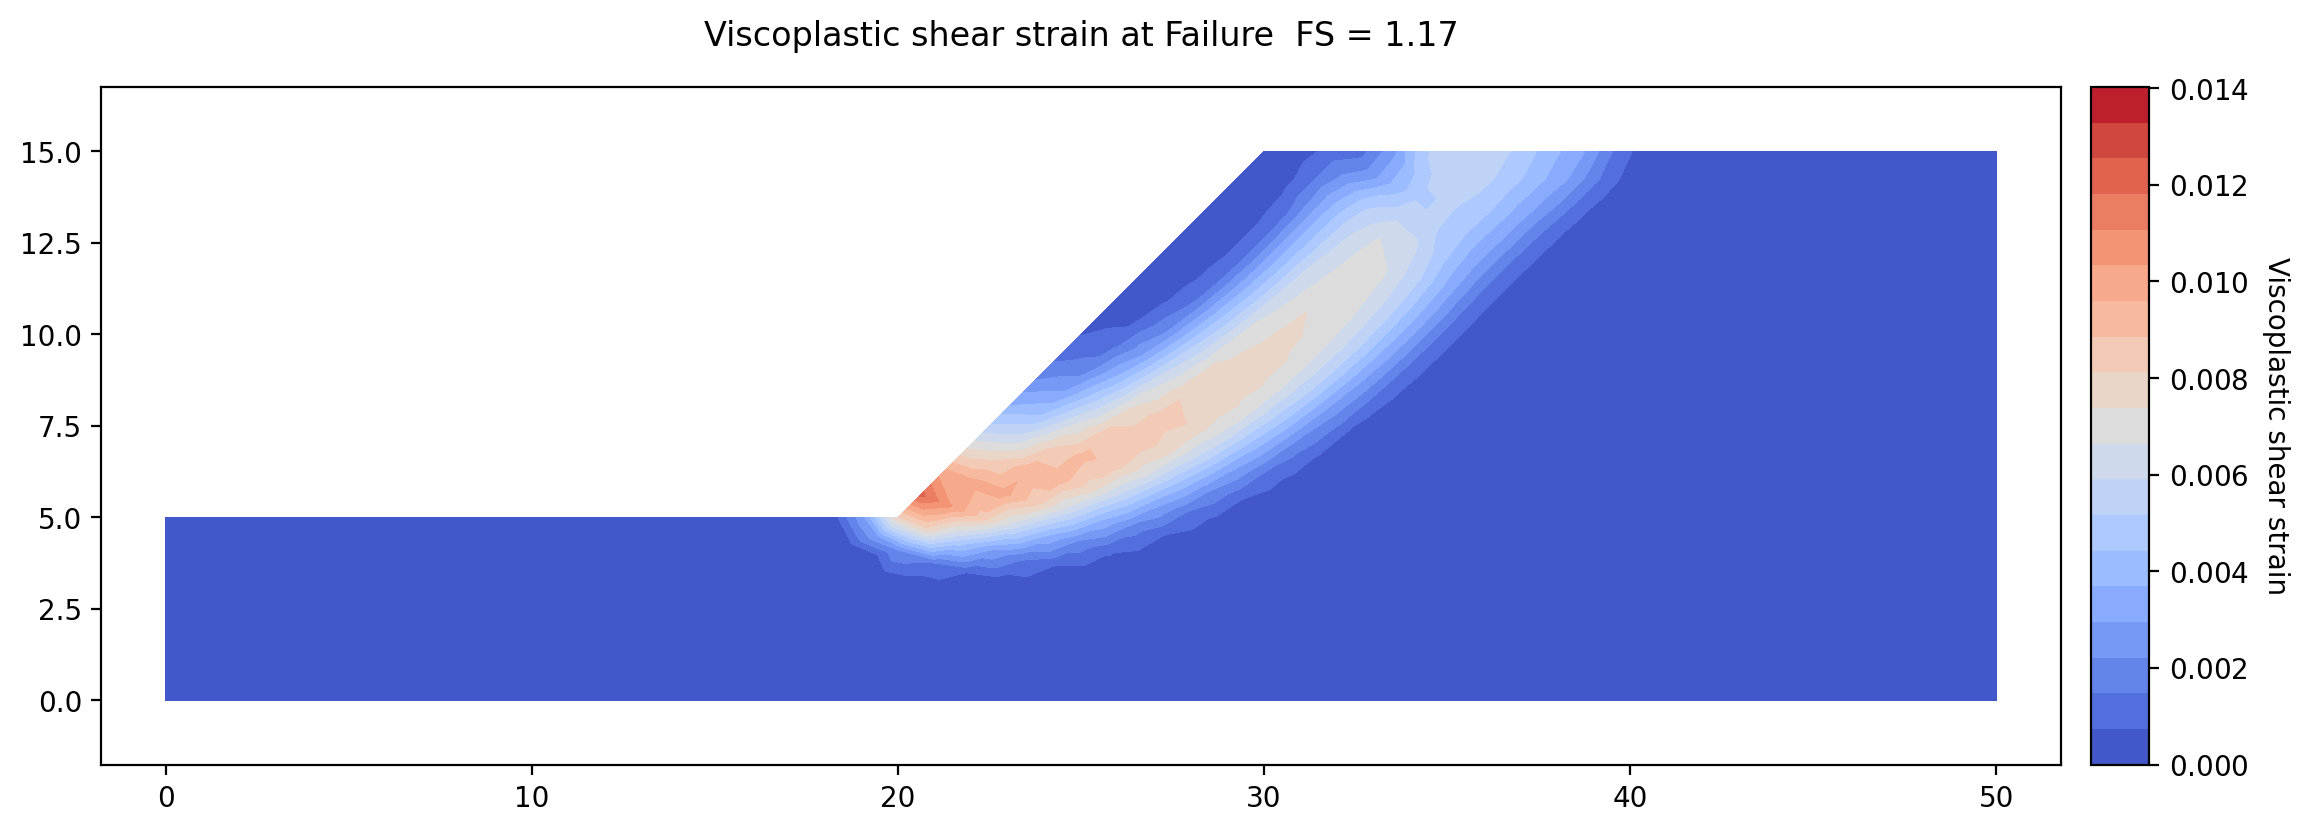
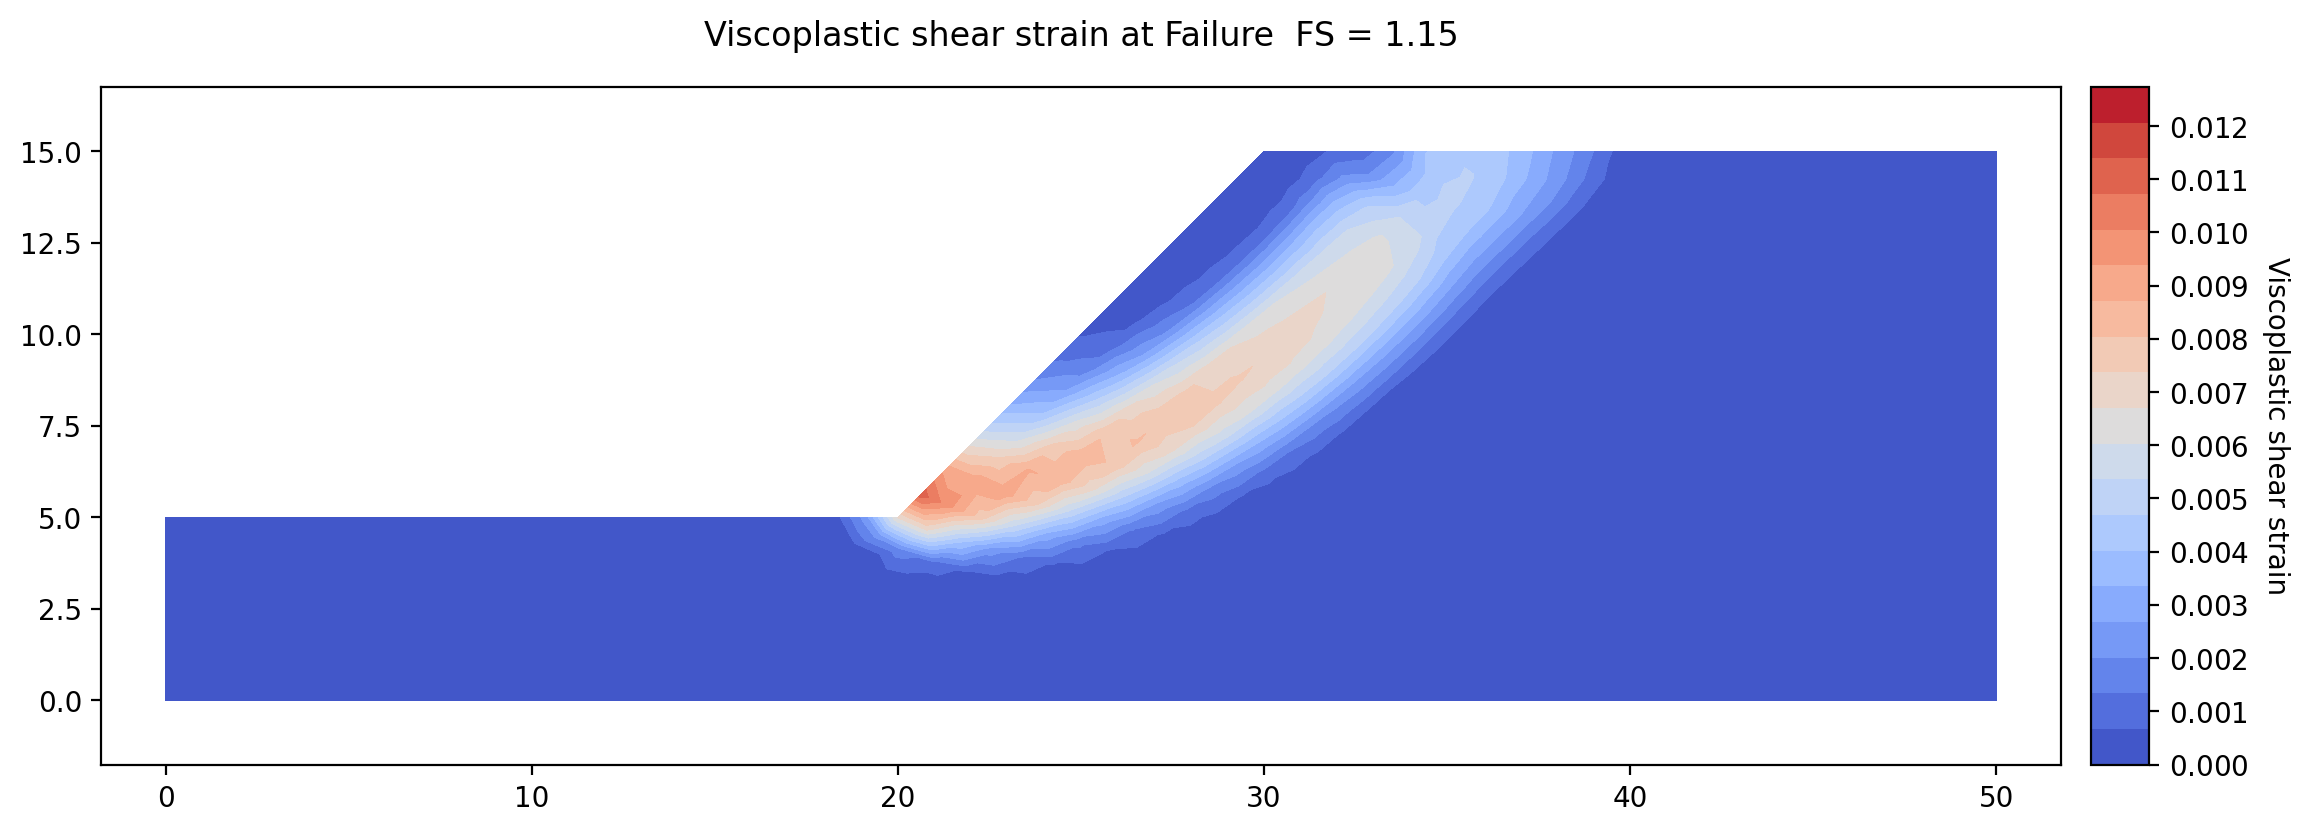
docs(lem13): the rock slope's strength reduction reads 1.153
With the tensile cutoff declared, Run FEM opens with no warning to report, so the
paragraph that named the blank t_cut and pointed at FEM-1 for what an unbounded
cone apex means is gone; what remains is the bracket and the settings the file
declares. The regenerated capture shows Model checks reading "No problems found
for this run" over the K0 note, Run enabled, and the Tension SRF checkbox dimmed,
since a zero cap is one the trial factor cannot reduce.

The strength-reduction lock moves with the file: expected_fs 1.166 -> 1.153, the
FS the page prints and the table's third reading with it. The two engines now
agree to 0.1% rather than 1.2%, and each of the three readings lands within 0.3%
of Hammah's published value rather than 1.4%. The mesh figure and the Build Mesh
capture came out byte-identical -- 3,112 nodes and 1,485 triangles, as the page
says -- and the two result panels are redrawn at the new critical factor.

Claude-Session: https://claude.ai/code/session_01XjjT2aBxw8gY7EFdpoUcpj

diff --git a/docs/tutorials/lem13_rock_slope.md b/docs/tutorials/lem13_rock_slope.md
@@ -221,21 +221,18 @@ Now click **Run → Run FEM…**
 
 ![Run FEM on the meshed model](images/lem13_studio_run_fem.png)
 
-**Model checks — 1 warning**, and **Run** is enabled. The warning names the blank
-tensile cutoff `t_cut`, which lets the rock carry tension up to its Mohr-Coulomb
-cone apex; in [FEM-1](fem01_strength_reduction.md#running-the-strength-reduction)
-we cover what that means and when to enter a cap. The dialog opens on **SSRM (find
-FS)** with the bracket the file declares, **F min (SSRM)** = 0.80 and **F max
-(SSRM)** = 1.60, a **Tolerance (SSRM)** of 0.0100, the iteration budget and ceiling
-at their own 12,000 and 50,000, **Rollers** on the sides, **K0 initial stress**
-ticked at 1.000, and **Non-convergence** as the failure criterion. Click **Run**.
-This is the long run of Part A, taking far longer than the search above.
+The dialog opens on **SSRM (find FS)** with the bracket the file declares, **F min
+(SSRM)** = 0.80 and **F max (SSRM)** = 1.60, a **Tolerance (SSRM)** of 0.0100, the
+iteration budget and ceiling at their own 12,000 and 50,000, **Rollers** on the
+sides, **K0 initial stress** ticked at 1.000, and **Non-convergence** as the
+failure criterion. Click **Run**. This is the long run of Part A, taking far longer
+than the search above.
 
-**FS = 1.166**. Hammah et al. report 1.15 for the same slope,
+**FS = 1.153**. Hammah et al. report 1.15 for the same slope,
 solved both with the generalized criterion and with an equivalent Mohr-Coulomb
 fit.
 
-<!-- test: file=files/xslope_rock_slope.xlsx, type=fem_ssrm, expected_fs=1.166, element_type=tri6, target_size=0.9, tolerance=0.01, f_min=0.8, f_max=1.6, k0=1, benchmark=LEM-13-ssrm -->
+<!-- test: file=files/xslope_rock_slope.xlsx, type=fem_ssrm, expected_fs=1.153, element_type=tri6, target_size=0.9, tolerance=0.01, f_min=0.8, f_max=1.6, k0=1, benchmark=LEM-13-ssrm -->
 
 ![The mechanism at failure](images/lem13_shear_strain.png){width=1000}
 
@@ -258,10 +255,10 @@ Three readings of one file:
 | --- | :---: | :---: |
 | Bishop's simplified | 1.150 | 1.153 |
 | Spencer's method | 1.152 | 1.152 |
-| Strength reduction | 1.166 | 1.15 |
+| Strength reduction | 1.153 | 1.15 |
 
-The two engines agree to 1.2% on a slope whose strength is nonlinear everywhere,
-and each lands within 1.4% of the value the paper published for it. They get there
+The two engines agree to 0.1% on a slope whose strength is nonlinear everywhere,
+and each lands within 0.3% of the value the paper published for it. They get there
 from completely different discretizations of the same curve: the limit equilibrium
 run linearizes the envelope at the base normal stress on each of 40 slices, and the
 finite element run linearizes it at every Gauss point on every viscoplastic
